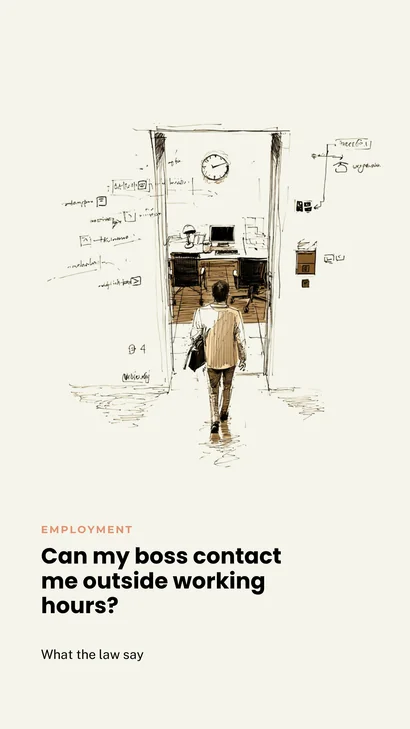
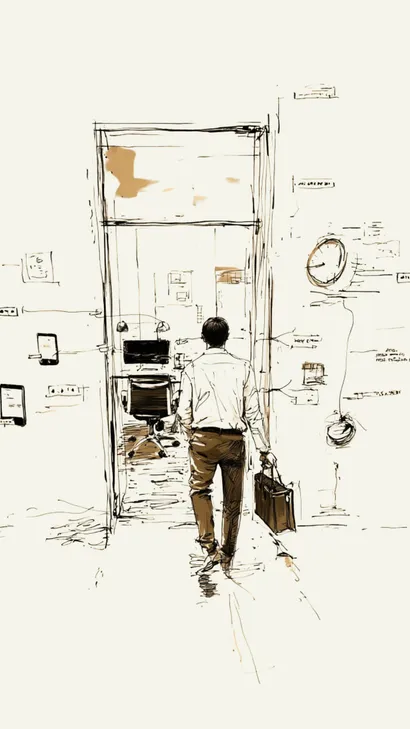
Employment questions: title-free card images, hero images, real card text
Same treatment as the Flights & Travel batch, now for Employment (5
articles), plus the pillar page this time (learned from the Flights &
Travel gap where the pillar page's <picture>/webp source was missed).

1. Replace the 5 small card images in images/questions/employment/
   with new title-free versions — same filenames, same 1200x2133 dims.

2. Add a dedicated 1600x900 hero image to each of the 5 Employment
   question articles via the established .q-hero-image class (visible
   at all breakpoints, unlike the sitewide .hero-image which is
   display:none on mobile).

3. Fix /questions/ index cards (both "all" and "employment" tab
   panels): title and category are now real HTML text
   (<h3 class="q-card-title">, <span class="q-card-category">) below
   each image, reusing the .q-card component introduced in the
   Flights & Travel batch — no new CSS needed.

4. Fix the Employment pillar page (employment.html): regenerated all
   15 webp variants (full/320w/410w x 5 slugs) from the new title-free
   PNGs, since this page's cards use a <picture>/webp source that
   questions.html's cards don't — same gap as the Flights & Travel
   pillar page had. Applied the same .q-card/.q-card-category/
   .q-card-title structure so title/category render as real text here
   too.

diff --git a/employment.html b/employment.html
@@ -552,28 +552,49 @@
        zero DOM nodes for them. Not a "Coming soon" message — nothing at all. -->
   <div id="chFutureSections"></div>
 
-  <!-- QUESTIONS — image-only cards, same .q-card-grid/.q-img-card component as
-       questions.html and the Flights & Travel pillar page. Static (not JS-rendered
-       like Calculators/Cases/Investigations above) since this section, unlike
-       those, isn't meant to silently disappear if empty. -->
+  <!-- QUESTIONS — image + category + title cards, same .q-card-grid/.q-card
+       component as questions.html and the Flights & Travel pillar page (title/
+       category are real HTML text, never baked into the image). Static (not
+       JS-rendered like Calculators/Cases/Investigations above) since this
+       section, unlike those, isn't meant to silently disappear if empty. -->
   <section aria-labelledby="ch-questions-h2" style="margin-top: 56px;">
     <h2 id="ch-questions-h2" class="cl-hub-cat">Questions</h2>
     <p class="cl-hub-cat-sub">Real questions about pay, hours and workplace rules — answered with the exact US and UK law that applies. <a href="/questions">See all Questions →</a></p>
     <div class="q-card-grid">
-      <a class="q-img-card" href="/questions/employment/can-my-boss-contact-me-outside-working-hours">
-        <picture><source srcset="/images/questions/employment/can-my-boss-contact-me-outside-working-hours-320w.webp 320w, /images/questions/employment/can-my-boss-contact-me-outside-working-hours-410w.webp 410w, /images/questions/employment/can-my-boss-contact-me-outside-working-hours.webp 540w" sizes="(min-width: 960px) 265px, (min-width: 640px) 205px, 160px" type="image/webp"><img src="/images/questions/employment/can-my-boss-contact-me-outside-working-hours.png" alt="Can my boss contact me outside working hours?" loading="lazy" width="1200" height="2133"></picture>
+      <a class="q-card" href="/questions/employment/can-my-boss-contact-me-outside-working-hours">
+        <div class="q-img-card">
+          <picture><source srcset="/images/questions/employment/can-my-boss-contact-me-outside-working-hours-320w.webp 320w, /images/questions/employment/can-my-boss-contact-me-outside-working-hours-410w.webp 410w, /images/questions/employment/can-my-boss-contact-me-outside-working-hours.webp 540w" sizes="(min-width: 960px) 265px, (min-width: 640px) 205px, 160px" type="image/webp"><img src="/images/questions/employment/can-my-boss-contact-me-outside-working-hours.png" alt="Can my boss contact me outside working hours?" loading="lazy" width="1200" height="2133"></picture>
+        </div>
+        <span class="q-card-category">Employment</span>
+        <h3 class="q-card-title">Can my boss contact me outside working hours?</h3>
       </a>
-      <a class="q-img-card" href="/questions/employment/can-my-employer-make-me-stay-unpaid-after-shift">
-        <picture><source srcset="/images/questions/employment/can-my-employer-make-me-stay-unpaid-after-shift-320w.webp 320w, /images/questions/employment/can-my-employer-make-me-stay-unpaid-after-shift-410w.webp 410w, /images/questions/employment/can-my-employer-make-me-stay-unpaid-after-shift.webp 540w" sizes="(min-width: 960px) 265px, (min-width: 640px) 205px, 160px" type="image/webp"><img src="/images/questions/employment/can-my-employer-make-me-stay-unpaid-after-shift.png" alt="Can my employer make me stay after my shift without paying me?" loading="lazy" width="1200" height="2133"></picture>
+      <a class="q-card" href="/questions/employment/can-my-employer-make-me-stay-unpaid-after-shift">
+        <div class="q-img-card">
+          <picture><source srcset="/images/questions/employment/can-my-employer-make-me-stay-unpaid-after-shift-320w.webp 320w, /images/questions/employment/can-my-employer-make-me-stay-unpaid-after-shift-410w.webp 410w, /images/questions/employment/can-my-employer-make-me-stay-unpaid-after-shift.webp 540w" sizes="(min-width: 960px) 265px, (min-width: 640px) 205px, 160px" type="image/webp"><img src="/images/questions/employment/can-my-employer-make-me-stay-unpaid-after-shift.png" alt="Can my employer make me stay after my shift without paying me?" loading="lazy" width="1200" height="2133"></picture>
+        </div>
+        <span class="q-card-category">Employment</span>
+        <h3 class="q-card-title">Can my employer make me stay after my shift without paying me?</h3>
       </a>
-      <a class="q-img-card" href="/questions/employment/can-my-employer-deduct-salary-for-mistakes">
-        <picture><source srcset="/images/questions/employment/can-my-employer-deduct-salary-for-mistakes-320w.webp 320w, /images/questions/employment/can-my-employer-deduct-salary-for-mistakes-410w.webp 410w, /images/questions/employment/can-my-employer-deduct-salary-for-mistakes.webp 540w" sizes="(min-width: 960px) 265px, (min-width: 640px) 205px, 160px" type="image/webp"><img src="/images/questions/employment/can-my-employer-deduct-salary-for-mistakes.png" alt="Can my employer deduct money from my salary for mistakes?" loading="lazy" width="1200" height="2133"></picture>
+      <a class="q-card" href="/questions/employment/can-my-employer-deduct-salary-for-mistakes">
+        <div class="q-img-card">
+          <picture><source srcset="/images/questions/employment/can-my-employer-deduct-salary-for-mistakes-320w.webp 320w, /images/questions/employment/can-my-employer-deduct-salary-for-mistakes-410w.webp 410w, /images/questions/employment/can-my-employer-deduct-salary-for-mistakes.webp 540w" sizes="(min-width: 960px) 265px, (min-width: 640px) 205px, 160px" type="image/webp"><img src="/images/questions/employment/can-my-employer-deduct-salary-for-mistakes.png" alt="Can my employer deduct money from my salary for mistakes?" loading="lazy" width="1200" height="2133"></picture>
+        </div>
+        <span class="q-card-category">Employment</span>
+        <h3 class="q-card-title">Can my employer deduct money from my salary for mistakes?</h3>
       </a>
-      <a class="q-img-card" href="/questions/employment/can-my-employer-make-me-use-vacation-days-shutdown">
-        <picture><source srcset="/images/questions/employment/can-my-employer-make-me-use-vacation-days-shutdown-320w.webp 320w, /images/questions/employment/can-my-employer-make-me-use-vacation-days-shutdown-410w.webp 410w, /images/questions/employment/can-my-employer-make-me-use-vacation-days-shutdown.webp 540w" sizes="(min-width: 960px) 265px, (min-width: 640px) 205px, 160px" type="image/webp"><img src="/images/questions/employment/can-my-employer-make-me-use-vacation-days-shutdown.png" alt="Can my employer make me use vacation days when the business is closed?" loading="lazy" width="1200" height="2133"></picture>
+      <a class="q-card" href="/questions/employment/can-my-employer-make-me-use-vacation-days-shutdown">
+        <div class="q-img-card">
+          <picture><source srcset="/images/questions/employment/can-my-employer-make-me-use-vacation-days-shutdown-320w.webp 320w, /images/questions/employment/can-my-employer-make-me-use-vacation-days-shutdown-410w.webp 410w, /images/questions/employment/can-my-employer-make-me-use-vacation-days-shutdown.webp 540w" sizes="(min-width: 960px) 265px, (min-width: 640px) 205px, 160px" type="image/webp"><img src="/images/questions/employment/can-my-employer-make-me-use-vacation-days-shutdown.png" alt="Can my employer make me use vacation days when the business is closed?" loading="lazy" width="1200" height="2133"></picture>
+        </div>
+        <span class="q-card-category">Employment</span>
+        <h3 class="q-card-title">Can my employer make me use vacation days when the business is closed?</h3>
       </a>
-      <a class="q-img-card" href="/questions/employment/can-my-boss-read-messages-work-phone">
-        <picture><source srcset="/images/questions/employment/can-my-boss-read-messages-work-phone-320w.webp 320w, /images/questions/employment/can-my-boss-read-messages-work-phone-410w.webp 410w, /images/questions/employment/can-my-boss-read-messages-work-phone.webp 540w" sizes="(min-width: 960px) 265px, (min-width: 640px) 205px, 160px" type="image/webp"><img src="/images/questions/employment/can-my-boss-read-messages-work-phone.png" alt="Can my boss read messages sent through my work phone?" loading="lazy" width="1200" height="2133"></picture>
+      <a class="q-card" href="/questions/employment/can-my-boss-read-messages-work-phone">
+        <div class="q-img-card">
+          <picture><source srcset="/images/questions/employment/can-my-boss-read-messages-work-phone-320w.webp 320w, /images/questions/employment/can-my-boss-read-messages-work-phone-410w.webp 410w, /images/questions/employment/can-my-boss-read-messages-work-phone.webp 540w" sizes="(min-width: 960px) 265px, (min-width: 640px) 205px, 160px" type="image/webp"><img src="/images/questions/employment/can-my-boss-read-messages-work-phone.png" alt="Can my boss read messages sent through my work phone?" loading="lazy" width="1200" height="2133"></picture>
+        </div>
+        <span class="q-card-category">Employment</span>
+        <h3 class="q-card-title">Can my boss read messages sent through my work phone?</h3>
       </a>
     </div>
   </section>

diff --git a/questions.html b/questions.html
@@ -356,20 +356,40 @@
           <span class="q-card-category">Flights &amp; Travel</span>
           <h3 class="q-card-title">Can an airline change my flight time without telling me in advance?</h3>
         </a>
-        <a class="q-img-card" href="/questions/employment/can-my-boss-contact-me-outside-working-hours">
-          <img src="/images/questions/employment/can-my-boss-contact-me-outside-working-hours.png" alt="Can my boss contact me outside working hours?" loading="lazy" width="1200" height="2133">
+        <a class="q-card" href="/questions/employment/can-my-boss-contact-me-outside-working-hours">
+          <div class="q-img-card">
+            <img src="/images/questions/employment/can-my-boss-contact-me-outside-working-hours.png" alt="Can my boss contact me outside working hours?" loading="lazy" width="1200" height="2133">
+          </div>
+          <span class="q-card-category">Employment</span>
+          <h3 class="q-card-title">Can my boss contact me outside working hours?</h3>
         </a>
-        <a class="q-img-card" href="/questions/employment/can-my-employer-make-me-stay-unpaid-after-shift">
-          <img src="/images/questions/employment/can-my-employer-make-me-stay-unpaid-after-shift.png" alt="Can my employer make me stay after my shift without paying me?" loading="lazy" width="1200" height="2133">
+        <a class="q-card" href="/questions/employment/can-my-employer-make-me-stay-unpaid-after-shift">
+          <div class="q-img-card">
+            <img src="/images/questions/employment/can-my-employer-make-me-stay-unpaid-after-shift.png" alt="Can my employer make me stay after my shift without paying me?" loading="lazy" width="1200" height="2133">
+          </div>
+          <span class="q-card-category">Employment</span>
+          <h3 class="q-card-title">Can my employer make me stay after my shift without paying me?</h3>
         </a>
-        <a class="q-img-card" href="/questions/employment/can-my-employer-deduct-salary-for-mistakes">
-          <img src="/images/questions/employment/can-my-employer-deduct-salary-for-mistakes.png" alt="Can my employer deduct money from my salary for mistakes?" loading="lazy" width="1200" height="2133">
+        <a class="q-card" href="/questions/employment/can-my-employer-deduct-salary-for-mistakes">
+          <div class="q-img-card">
+            <img src="/images/questions/employment/can-my-employer-deduct-salary-for-mistakes.png" alt="Can my employer deduct money from my salary for mistakes?" loading="lazy" width="1200" height="2133">
+          </div>
+          <span class="q-card-category">Employment</span>
+          <h3 class="q-card-title">Can my employer deduct money from my salary for mistakes?</h3>
         </a>
-        <a class="q-img-card" href="/questions/employment/can-my-employer-make-me-use-vacation-days-shutdown">
-          <img src="/images/questions/employment/can-my-employer-make-me-use-vacation-days-shutdown.png" alt="Can my employer make me use vacation days when the business is closed?" loading="lazy" width="1200" height="2133">
+        <a class="q-card" href="/questions/employment/can-my-employer-make-me-use-vacation-days-shutdown">
+          <div class="q-img-card">
+            <img src="/images/questions/employment/can-my-employer-make-me-use-vacation-days-shutdown.png" alt="Can my employer make me use vacation days when the business is closed?" loading="lazy" width="1200" height="2133">
+          </div>
+          <span class="q-card-category">Employment</span>
+          <h3 class="q-card-title">Can my employer make me use vacation days when the business is closed?</h3>
         </a>
-        <a class="q-img-card" href="/questions/employment/can-my-boss-read-messages-work-phone">
-          <img src="/images/questions/employment/can-my-boss-read-messages-work-phone.png" alt="Can my boss read messages sent through my work phone?" loading="lazy" width="1200" height="2133">
+        <a class="q-card" href="/questions/employment/can-my-boss-read-messages-work-phone">
+          <div class="q-img-card">
+            <img src="/images/questions/employment/can-my-boss-read-messages-work-phone.png" alt="Can my boss read messages sent through my work phone?" loading="lazy" width="1200" height="2133">
+          </div>
+          <span class="q-card-category">Employment</span>
+          <h3 class="q-card-title">Can my boss read messages sent through my work phone?</h3>
         </a>
         <a class="q-img-card" href="/questions/crypto-fintech/can-fintech-close-account-without-explaining">
           <img src="/images/questions/crypto-fintech/can-fintech-close-account-without-explaining.png" alt="Can a fintech company close my account without explaining why?" loading="lazy" width="1200" height="2133">
@@ -521,20 +541,40 @@
 
     <div class="qh-tool-panel" data-toolpanel="employment">
       <div class="q-card-grid">
-        <a class="q-img-card" href="/questions/employment/can-my-boss-contact-me-outside-working-hours">
-          <img src="/images/questions/employment/can-my-boss-contact-me-outside-working-hours.png" alt="Can my boss contact me outside working hours?" loading="lazy" width="1200" height="2133">
+        <a class="q-card" href="/questions/employment/can-my-boss-contact-me-outside-working-hours">
+          <div class="q-img-card">
+            <img src="/images/questions/employment/can-my-boss-contact-me-outside-working-hours.png" alt="Can my boss contact me outside working hours?" loading="lazy" width="1200" height="2133">
+          </div>
+          <span class="q-card-category">Employment</span>
+          <h3 class="q-card-title">Can my boss contact me outside working hours?</h3>
         </a>
-        <a class="q-img-card" href="/questions/employment/can-my-employer-make-me-stay-unpaid-after-shift">
-          <img src="/images/questions/employment/can-my-employer-make-me-stay-unpaid-after-shift.png" alt="Can my employer make me stay after my shift without paying me?" loading="lazy" width="1200" height="2133">
+        <a class="q-card" href="/questions/employment/can-my-employer-make-me-stay-unpaid-after-shift">
+          <div class="q-img-card">
+            <img src="/images/questions/employment/can-my-employer-make-me-stay-unpaid-after-shift.png" alt="Can my employer make me stay after my shift without paying me?" loading="lazy" width="1200" height="2133">
+          </div>
+          <span class="q-card-category">Employment</span>
+          <h3 class="q-card-title">Can my employer make me stay after my shift without paying me?</h3>
         </a>
-        <a class="q-img-card" href="/questions/employment/can-my-employer-deduct-salary-for-mistakes">
-          <img src="/images/questions/employment/can-my-employer-deduct-salary-for-mistakes.png" alt="Can my employer deduct money from my salary for mistakes?" loading="lazy" width="1200" height="2133">
+        <a class="q-card" href="/questions/employment/can-my-employer-deduct-salary-for-mistakes">
+          <div class="q-img-card">
+            <img src="/images/questions/employment/can-my-employer-deduct-salary-for-mistakes.png" alt="Can my employer deduct money from my salary for mistakes?" loading="lazy" width="1200" height="2133">
+          </div>
+          <span class="q-card-category">Employment</span>
+          <h3 class="q-card-title">Can my employer deduct money from my salary for mistakes?</h3>
         </a>
-        <a class="q-img-card" href="/questions/employment/can-my-employer-make-me-use-vacation-days-shutdown">
-          <img src="/images/questions/employment/can-my-employer-make-me-use-vacation-days-shutdown.png" alt="Can my employer make me use vacation days when the business is closed?" loading="lazy" width="1200" height="2133">
+        <a class="q-card" href="/questions/employment/can-my-employer-make-me-use-vacation-days-shutdown">
+          <div class="q-img-card">
+            <img src="/images/questions/employment/can-my-employer-make-me-use-vacation-days-shutdown.png" alt="Can my employer make me use vacation days when the business is closed?" loading="lazy" width="1200" height="2133">
+          </div>
+          <span class="q-card-category">Employment</span>
+          <h3 class="q-card-title">Can my employer make me use vacation days when the business is closed?</h3>
         </a>
-        <a class="q-img-card" href="/questions/employment/can-my-boss-read-messages-work-phone">
-          <img src="/images/questions/employment/can-my-boss-read-messages-work-phone.png" alt="Can my boss read messages sent through my work phone?" loading="lazy" width="1200" height="2133">
+        <a class="q-card" href="/questions/employment/can-my-boss-read-messages-work-phone">
+          <div class="q-img-card">
+            <img src="/images/questions/employment/can-my-boss-read-messages-work-phone.png" alt="Can my boss read messages sent through my work phone?" loading="lazy" width="1200" height="2133">
+          </div>
+          <span class="q-card-category">Employment</span>
+          <h3 class="q-card-title">Can my boss read messages sent through my work phone?</h3>
         </a>
       </div>
     </div>

diff --git a/questions/employment/can-my-employer-deduct-salary-for-mistakes.html b/questions/employment/can-my-employer-deduct-salary-for-mistakes.html
@@ -102,6 +102,8 @@
   .wrap { max-width: 760px; margin: 0 auto; padding: 0 24px; }
   .q-header { padding: 56px 0 32px; }
   .q-category { display: inline-block; font-size: 13px; font-weight: 700; letter-spacing: 1.2px; text-transform: uppercase; color: var(--accent-terra); margin-bottom: 18px; }
+  /* Visible at ALL breakpoints, unlike the sitewide .hero-image class (display:none on mobile). */
+  .q-hero-image { display: block; width: 100%; max-width: 100%; height: auto; border-radius: 12px; margin: 0 0 24px; }
   .q-header h1 { font-family: var(--font-serif); font-size: 38px; font-weight: 800; line-height: 1.2; margin-bottom: 18px; }
   .q-dek { font-size: 18px; color: var(--text-secondary); max-width: 620px; }
   .q-meta { display: flex; gap: 18px; margin-top: 22px; font-size: 13px; color: var(--text-secondary); }
@@ -339,6 +341,7 @@
 
   <header class="q-header">
     <span class="q-category">Employment · US &amp; UK</span>
+    <img class="q-hero-image" src="/images/questions/employment/can-my-employer-deduct-salary-for-mistakes-hero.png" width="1600" height="900" alt="Can my employer deduct money from my salary for mistakes?" loading="eager" fetchpriority="high">
     <h1>Can my employer deduct money from my salary for mistakes?</h1>
     <p class="q-dek">A dropped tray or a short till feels like it should be "your fault" — but in most places, the law disagrees, and treats it as the ordinary cost of running a business.</p>
     <div class="q-meta">

diff --git a/questions/employment/can-my-employer-make-me-use-vacation-days-shutdown.html b/questions/employment/can-my-employer-make-me-use-vacation-days-shutdown.html
@@ -102,6 +102,8 @@
   .wrap { max-width: 760px; margin: 0 auto; padding: 0 24px; }
   .q-header { padding: 56px 0 32px; }
   .q-category { display: inline-block; font-size: 13px; font-weight: 700; letter-spacing: 1.2px; text-transform: uppercase; color: var(--accent-terra); margin-bottom: 18px; }
+  /* Visible at ALL breakpoints, unlike the sitewide .hero-image class (display:none on mobile). */
+  .q-hero-image { display: block; width: 100%; max-width: 100%; height: auto; border-radius: 12px; margin: 0 0 24px; }
   .q-header h1 { font-family: var(--font-serif); font-size: 38px; font-weight: 800; line-height: 1.2; margin-bottom: 18px; }
   .q-dek { font-size: 18px; color: var(--text-secondary); max-width: 620px; }
   .q-meta { display: flex; gap: 18px; margin-top: 22px; font-size: 13px; color: var(--text-secondary); }
@@ -339,6 +341,7 @@
 
   <header class="q-header">
     <span class="q-category">Employment · US &amp; UK</span>
+    <img class="q-hero-image" src="/images/questions/employment/can-my-employer-make-me-use-vacation-days-shutdown-hero.png" width="1600" height="900" alt="Can my employer make me use vacation days when the business is closed?" loading="eager" fetchpriority="high">
     <h1>Can my employer make me use vacation days when the business is closed?</h1>
     <p class="q-dek">The employer usually can do this — the real question is whether they gave you enough warning to actually plan around it.</p>
     <div class="q-meta">

diff --git a/questions/employment/can-my-employer-make-me-stay-unpaid-after-shift.html b/questions/employment/can-my-employer-make-me-stay-unpaid-after-shift.html
@@ -102,6 +102,8 @@
   .wrap { max-width: 760px; margin: 0 auto; padding: 0 24px; }
   .q-header { padding: 56px 0 32px; }
   .q-category { display: inline-block; font-size: 13px; font-weight: 700; letter-spacing: 1.2px; text-transform: uppercase; color: var(--accent-terra); margin-bottom: 18px; }
+  /* Visible at ALL breakpoints, unlike the sitewide .hero-image class (display:none on mobile). */
+  .q-hero-image { display: block; width: 100%; max-width: 100%; height: auto; border-radius: 12px; margin: 0 0 24px; }
   .q-header h1 { font-family: var(--font-serif); font-size: 38px; font-weight: 800; line-height: 1.2; margin-bottom: 18px; }
   .q-dek { font-size: 18px; color: var(--text-secondary); max-width: 620px; }
   .q-meta { display: flex; gap: 18px; margin-top: 22px; font-size: 13px; color: var(--text-secondary); }
@@ -339,6 +341,7 @@
 
   <header class="q-header">
     <span class="q-category">Employment · US &amp; UK</span>
+    <img class="q-hero-image" src="/images/questions/employment/can-my-employer-make-me-stay-unpaid-after-shift-hero.png" width="1600" height="900" alt="Can my employer make me stay after my shift without paying me?" loading="eager" fetchpriority="high">
     <h1>Can my employer make me stay after my shift without paying me?</h1>
     <p class="q-dek">Seven unpaid minutes a day doesn't sound like much — until you multiply it by a year, and then by every employee it's happening to.</p>
     <div class="q-meta">

diff --git a/questions/employment/can-my-boss-contact-me-outside-working-hours.html b/questions/employment/can-my-boss-contact-me-outside-working-hours.html
@@ -102,6 +102,8 @@
   .wrap { max-width: 760px; margin: 0 auto; padding: 0 24px; }
   .q-header { padding: 56px 0 32px; }
   .q-category { display: inline-block; font-size: 13px; font-weight: 700; letter-spacing: 1.2px; text-transform: uppercase; color: var(--accent-terra); margin-bottom: 18px; }
+  /* Visible at ALL breakpoints, unlike the sitewide .hero-image class (display:none on mobile). */
+  .q-hero-image { display: block; width: 100%; max-width: 100%; height: auto; border-radius: 12px; margin: 0 0 24px; }
   .q-header h1 { font-family: var(--font-serif); font-size: 38px; font-weight: 800; line-height: 1.2; margin-bottom: 18px; }
   .q-dek { font-size: 18px; color: var(--text-secondary); max-width: 620px; }
   .q-meta { display: flex; gap: 18px; margin-top: 22px; font-size: 13px; color: var(--text-secondary); }
@@ -339,6 +341,7 @@
 
   <header class="q-header">
     <span class="q-category">Employment · US &amp; UK</span>
+    <img class="q-hero-image" src="/images/questions/employment/can-my-boss-contact-me-outside-working-hours-hero.png" width="1600" height="900" alt="Can my boss contact me outside working hours?" loading="eager" fetchpriority="high">
     <h1>Can my boss contact me outside working hours?</h1>
     <p class="q-dek">There's no button that legally silences your phone at 6pm — but constant after-hours contact can quietly turn into unpaid work, and that's where the real leverage is.</p>
     <div class="q-meta">

diff --git a/questions/employment/can-my-boss-read-messages-work-phone.html b/questions/employment/can-my-boss-read-messages-work-phone.html
@@ -102,6 +102,8 @@
   .wrap { max-width: 760px; margin: 0 auto; padding: 0 24px; }
   .q-header { padding: 56px 0 32px; }
   .q-category { display: inline-block; font-size: 13px; font-weight: 700; letter-spacing: 1.2px; text-transform: uppercase; color: var(--accent-terra); margin-bottom: 18px; }
+  /* Visible at ALL breakpoints, unlike the sitewide .hero-image class (display:none on mobile). */
+  .q-hero-image { display: block; width: 100%; max-width: 100%; height: auto; border-radius: 12px; margin: 0 0 24px; }
   .q-header h1 { font-family: var(--font-serif); font-size: 38px; font-weight: 800; line-height: 1.2; margin-bottom: 18px; }
   .q-dek { font-size: 18px; color: var(--text-secondary); max-width: 620px; }
   .q-meta { display: flex; gap: 18px; margin-top: 22px; font-size: 13px; color: var(--text-secondary); }
@@ -339,6 +341,7 @@
 
   <header class="q-header">
     <span class="q-category">Employment · US &amp; UK</span>
+    <img class="q-hero-image" src="/images/questions/employment/can-my-boss-read-messages-work-phone-hero.png" width="1600" height="900" alt="Can my boss read messages sent through my work phone?" loading="eager" fetchpriority="high">
     <h1>Can my boss read messages sent through my work phone?</h1>
     <p class="q-dek">Ownership of the device does most of the legal work here — but "work phone" hides at least three very different situations underneath one phrase.</p>
     <div class="q-meta">
